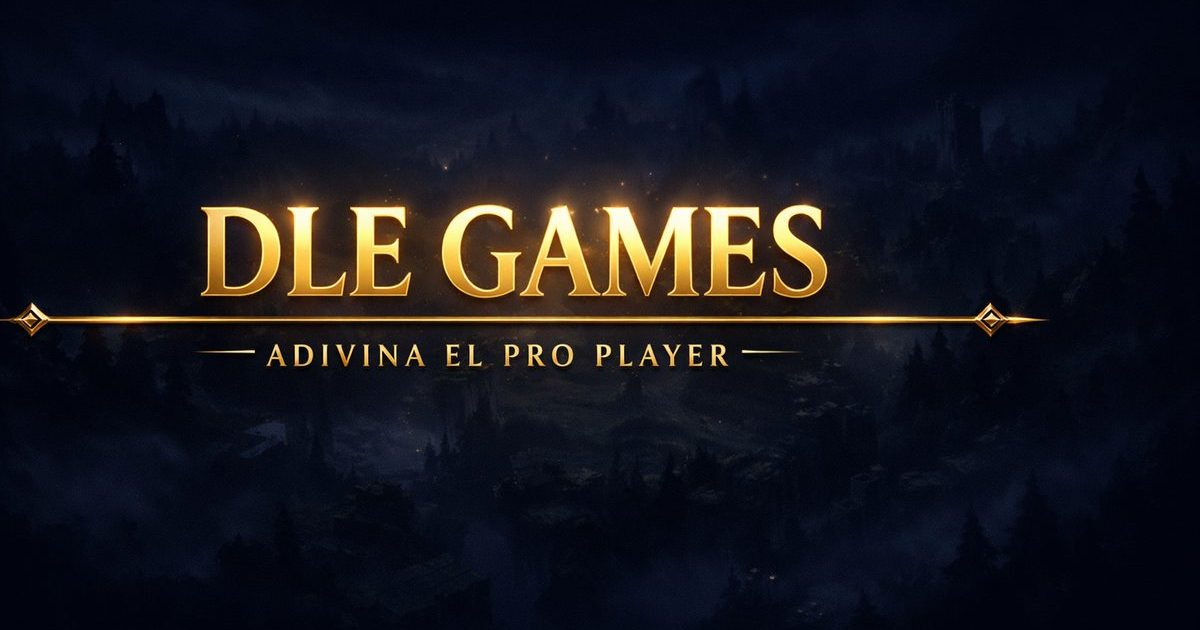
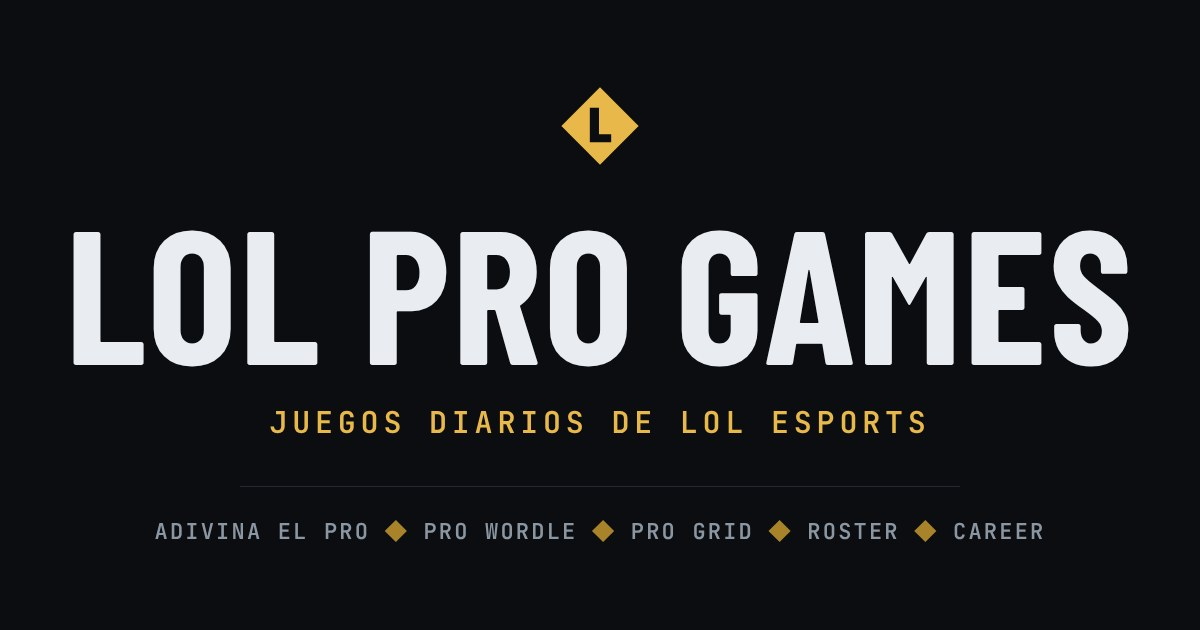
Rediseño (fase 3d): páginas legales e iconos de la PWA
- privacidad.html y aviso-legal.html: barra con la marca, título grande centrado, texto a 70ch con tipografía Barlow; sin fondo de imagen ni cuadro dorado.
- Iconos: rombo ámbar con una L sobre #0b0d10 (favicon.svg/png, apple-touch-icon, icon-192/512, versiones maskable con zona segura) y og-image.jpg nueva (antes decía 'DLE GAMES' con la paleta antigua).

Claude-Session: https://claude.ai/code/session_014ni4znTuPLdAfMahsMxGtQ

diff --git a/privacidad.html b/privacidad.html
@@ -22,34 +22,62 @@
   <link rel="stylesheet" href="./shared/fonts/fonts.css">
   <link rel="stylesheet" href="./shared/css/variables.css">
   <style>
-    :root { --gold: #e8b84a; --text: #e9edf1; --dim: #7a9cc0; --line: #232a33; }
-    * { box-sizing: border-box; }
+    * { box-sizing: border-box; margin: 0; }
+    html { scroll-behavior: smooth; }
     body {
-      margin: 0; min-height: 100vh; color: var(--text);
-      background: var(--bg);
-      font-family: var(--font-body); font-size: 1.02rem; line-height: 1.55;
+      min-height: 100vh; color: var(--text); background: var(--bg);
+      font-family: var(--font-body); font-size: 1.05rem; line-height: 1.6;
     }
-    main {
-      max-width: 760px; margin: 32px auto; padding: 28px 24px 36px;
-      background: rgba(11,13,16,0.9); border: 1px solid rgba(120,90,40,0.6);
+    .bar {
+      display: flex; align-items: center; justify-content: space-between; gap: 16px;
+      max-width: 1120px; margin: 0 auto; padding: 18px 20px;
+      border-bottom: 1px solid var(--border);
     }
-    h1 { font-family: var(--font-display); color: var(--gold); letter-spacing: 0.12em; font-size: 1.5rem; margin: 0 0 4px; text-align: center; }
-    .updated { text-align: center; color: var(--dim); font-size: 0.85rem; margin-bottom: 26px; }
-    h2 { font-family: var(--font-display); color: var(--gold); font-size: 1.02rem; letter-spacing: 0.08em; margin: 28px 0 8px; padding-bottom: 4px; border-bottom: 1px solid var(--line); }
-    a { color: var(--gold); }
-    ul { padding-left: 20px; }
-    li { margin-bottom: 4px; }
-    .back { display: inline-block; margin-bottom: 18px; color: var(--dim); text-decoration: none; font-weight: 600; }
-    .back:hover { color: var(--gold); }
-    .lang { text-align: right; font-size: 0.85rem; }
-    @media (max-width: 600px) { main { margin: 0; border: none; } }
+    .brand {
+      font-family: var(--font-display); font-size: 1.25rem; font-weight: 700;
+      letter-spacing: 0.14em; text-transform: uppercase;
+      color: var(--text); text-decoration: none; white-space: nowrap;
+    }
+    .brand::before {
+      content: ''; display: inline-block; width: 9px; height: 9px; margin-right: 10px;
+      background: var(--gold); transform: rotate(45deg);
+    }
+    .brand:hover { color: var(--gold); }
+    .lang { font-family: var(--font-mono); font-size: 0.78rem; letter-spacing: 0.08em; text-transform: uppercase; }
+    main { max-width: 70ch; margin: 0 auto; padding: 56px 20px 72px; }
+    h1 {
+      font-family: var(--font-display); font-weight: 700; text-transform: uppercase;
+      font-size: clamp(2.2rem, 7vw, 3.4rem); line-height: 1; letter-spacing: 0.01em;
+      color: var(--text); text-align: center;
+    }
+    h1 + .updated, .updated { margin: 14px 0 40px; text-align: center; color: var(--dim);
+      font-family: var(--font-mono); font-size: 0.78rem; letter-spacing: 0.08em; text-transform: uppercase; }
+    h1[id] { margin-top: 72px; padding-top: 48px; border-top: 1px solid var(--border); }
+    h2 {
+      font-family: var(--font-display); font-weight: 700; text-transform: uppercase;
+      font-size: 1.35rem; letter-spacing: 0.04em; color: var(--text);
+      margin: 36px 0 10px; padding-bottom: 6px; border-bottom: 1px solid var(--border);
+    }
+    p, ul { margin-bottom: 12px; }
+    strong { color: var(--text); font-weight: 600; }
+    a { color: var(--gold); text-underline-offset: 3px; }
+    a:hover { color: var(--text); }
+    ul { padding-left: 22px; }
+    li { margin-bottom: 6px; }
+    li::marker { color: var(--gold); }
+    @media (max-width: 600px) {
+      .bar { padding: 14px 16px; }
+      main { padding: 40px 16px 56px; }
+      h2 { font-size: 1.2rem; }
+    }
   </style>
 </head>
 <body>
-<main>
-  <a class="back" href="./">‹ LoL Pro Games</a>
+<header class="bar">
+  <a class="brand" href="./">LoL Pro Games</a>
   <div class="lang"><a href="#english">English version</a></div>
-
+</header>
+<main>
   <h1>Política de privacidad</h1>
   <p class="updated">Última actualización: 6 de octubre de 2026</p>
 
@@ -103,7 +131,7 @@
   <h2>Cuánto tiempo los guardamos</h2>
   <p>
     Mientras tengas la cuenta. Puedes borrarla, junto con todo tu historial, en cualquier momento
-    desde <strong>👤 Mi cuenta → Borrar mi cuenta</strong>, o pidiéndolo por correo.
+    desde <strong>Mi cuenta → Borrar mi cuenta</strong>, o pidiéndolo por correo.
   </p>
 
   <h2>Tus derechos</h2>
@@ -154,7 +182,7 @@
   </p>
   <p>
     <strong>Retention and your rights:</strong> data is kept while your account exists. Delete it at any
-    time from <strong>👤 My account → Delete my account</strong>, or email us to request access,
+    time from <strong>My account → Delete my account</strong>, or email us to request access,
     rectification, erasure or portability. You may also lodge a complaint with your data protection
     authority.
   </p>

diff --git a/aviso-legal.html b/aviso-legal.html
@@ -22,34 +22,62 @@
   <link rel="stylesheet" href="./shared/fonts/fonts.css">
   <link rel="stylesheet" href="./shared/css/variables.css">
   <style>
-    :root { --gold: #e8b84a; --text: #e9edf1; --dim: #7a9cc0; --line: #232a33; }
-    * { box-sizing: border-box; }
+    * { box-sizing: border-box; margin: 0; }
+    html { scroll-behavior: smooth; }
     body {
-      margin: 0; min-height: 100vh; color: var(--text);
-      background: var(--bg);
-      font-family: var(--font-body); font-size: 1.02rem; line-height: 1.55;
+      min-height: 100vh; color: var(--text); background: var(--bg);
+      font-family: var(--font-body); font-size: 1.05rem; line-height: 1.6;
     }
-    main {
-      max-width: 760px; margin: 32px auto; padding: 28px 24px 36px;
-      background: rgba(11,13,16,0.9); border: 1px solid rgba(120,90,40,0.6);
+    .bar {
+      display: flex; align-items: center; justify-content: space-between; gap: 16px;
+      max-width: 1120px; margin: 0 auto; padding: 18px 20px;
+      border-bottom: 1px solid var(--border);
     }
-    h1 { font-family: var(--font-display); color: var(--gold); letter-spacing: 0.12em; font-size: 1.5rem; margin: 0 0 4px; text-align: center; }
-    .updated { text-align: center; color: var(--dim); font-size: 0.85rem; margin-bottom: 26px; }
-    h2 { font-family: var(--font-display); color: var(--gold); font-size: 1.02rem; letter-spacing: 0.08em; margin: 28px 0 8px; padding-bottom: 4px; border-bottom: 1px solid var(--line); }
-    a { color: var(--gold); }
-    ul { padding-left: 20px; }
-    li { margin-bottom: 4px; }
-    .back { display: inline-block; margin-bottom: 18px; color: var(--dim); text-decoration: none; font-weight: 600; }
-    .back:hover { color: var(--gold); }
-    .lang { text-align: right; font-size: 0.85rem; }
-    @media (max-width: 600px) { main { margin: 0; border: none; } }
+    .brand {
+      font-family: var(--font-display); font-size: 1.25rem; font-weight: 700;
+      letter-spacing: 0.14em; text-transform: uppercase;
+      color: var(--text); text-decoration: none; white-space: nowrap;
+    }
+    .brand::before {
+      content: ''; display: inline-block; width: 9px; height: 9px; margin-right: 10px;
+      background: var(--gold); transform: rotate(45deg);
+    }
+    .brand:hover { color: var(--gold); }
+    .lang { font-family: var(--font-mono); font-size: 0.78rem; letter-spacing: 0.08em; text-transform: uppercase; }
+    main { max-width: 70ch; margin: 0 auto; padding: 56px 20px 72px; }
+    h1 {
+      font-family: var(--font-display); font-weight: 700; text-transform: uppercase;
+      font-size: clamp(2.2rem, 7vw, 3.4rem); line-height: 1; letter-spacing: 0.01em;
+      color: var(--text); text-align: center;
+    }
+    h1 + .updated, .updated { margin: 14px 0 40px; text-align: center; color: var(--dim);
+      font-family: var(--font-mono); font-size: 0.78rem; letter-spacing: 0.08em; text-transform: uppercase; }
+    h1[id] { margin-top: 72px; padding-top: 48px; border-top: 1px solid var(--border); }
+    h2 {
+      font-family: var(--font-display); font-weight: 700; text-transform: uppercase;
+      font-size: 1.35rem; letter-spacing: 0.04em; color: var(--text);
+      margin: 36px 0 10px; padding-bottom: 6px; border-bottom: 1px solid var(--border);
+    }
+    p, ul { margin-bottom: 12px; }
+    strong { color: var(--text); font-weight: 600; }
+    a { color: var(--gold); text-underline-offset: 3px; }
+    a:hover { color: var(--text); }
+    ul { padding-left: 22px; }
+    li { margin-bottom: 6px; }
+    li::marker { color: var(--gold); }
+    @media (max-width: 600px) {
+      .bar { padding: 14px 16px; }
+      main { padding: 40px 16px 56px; }
+      h2 { font-size: 1.2rem; }
+    }
   </style>
 </head>
 <body>
-<main>
-  <a class="back" href="./">‹ LoL Pro Games</a>
+<header class="bar">
+  <a class="brand" href="./">LoL Pro Games</a>
   <div class="lang"><a href="#english">English version</a></div>
-
+</header>
+<main>
   <h1>Aviso legal</h1>
   <p class="updated">Última actualización: 6 de octubre de 2026</p>
 
